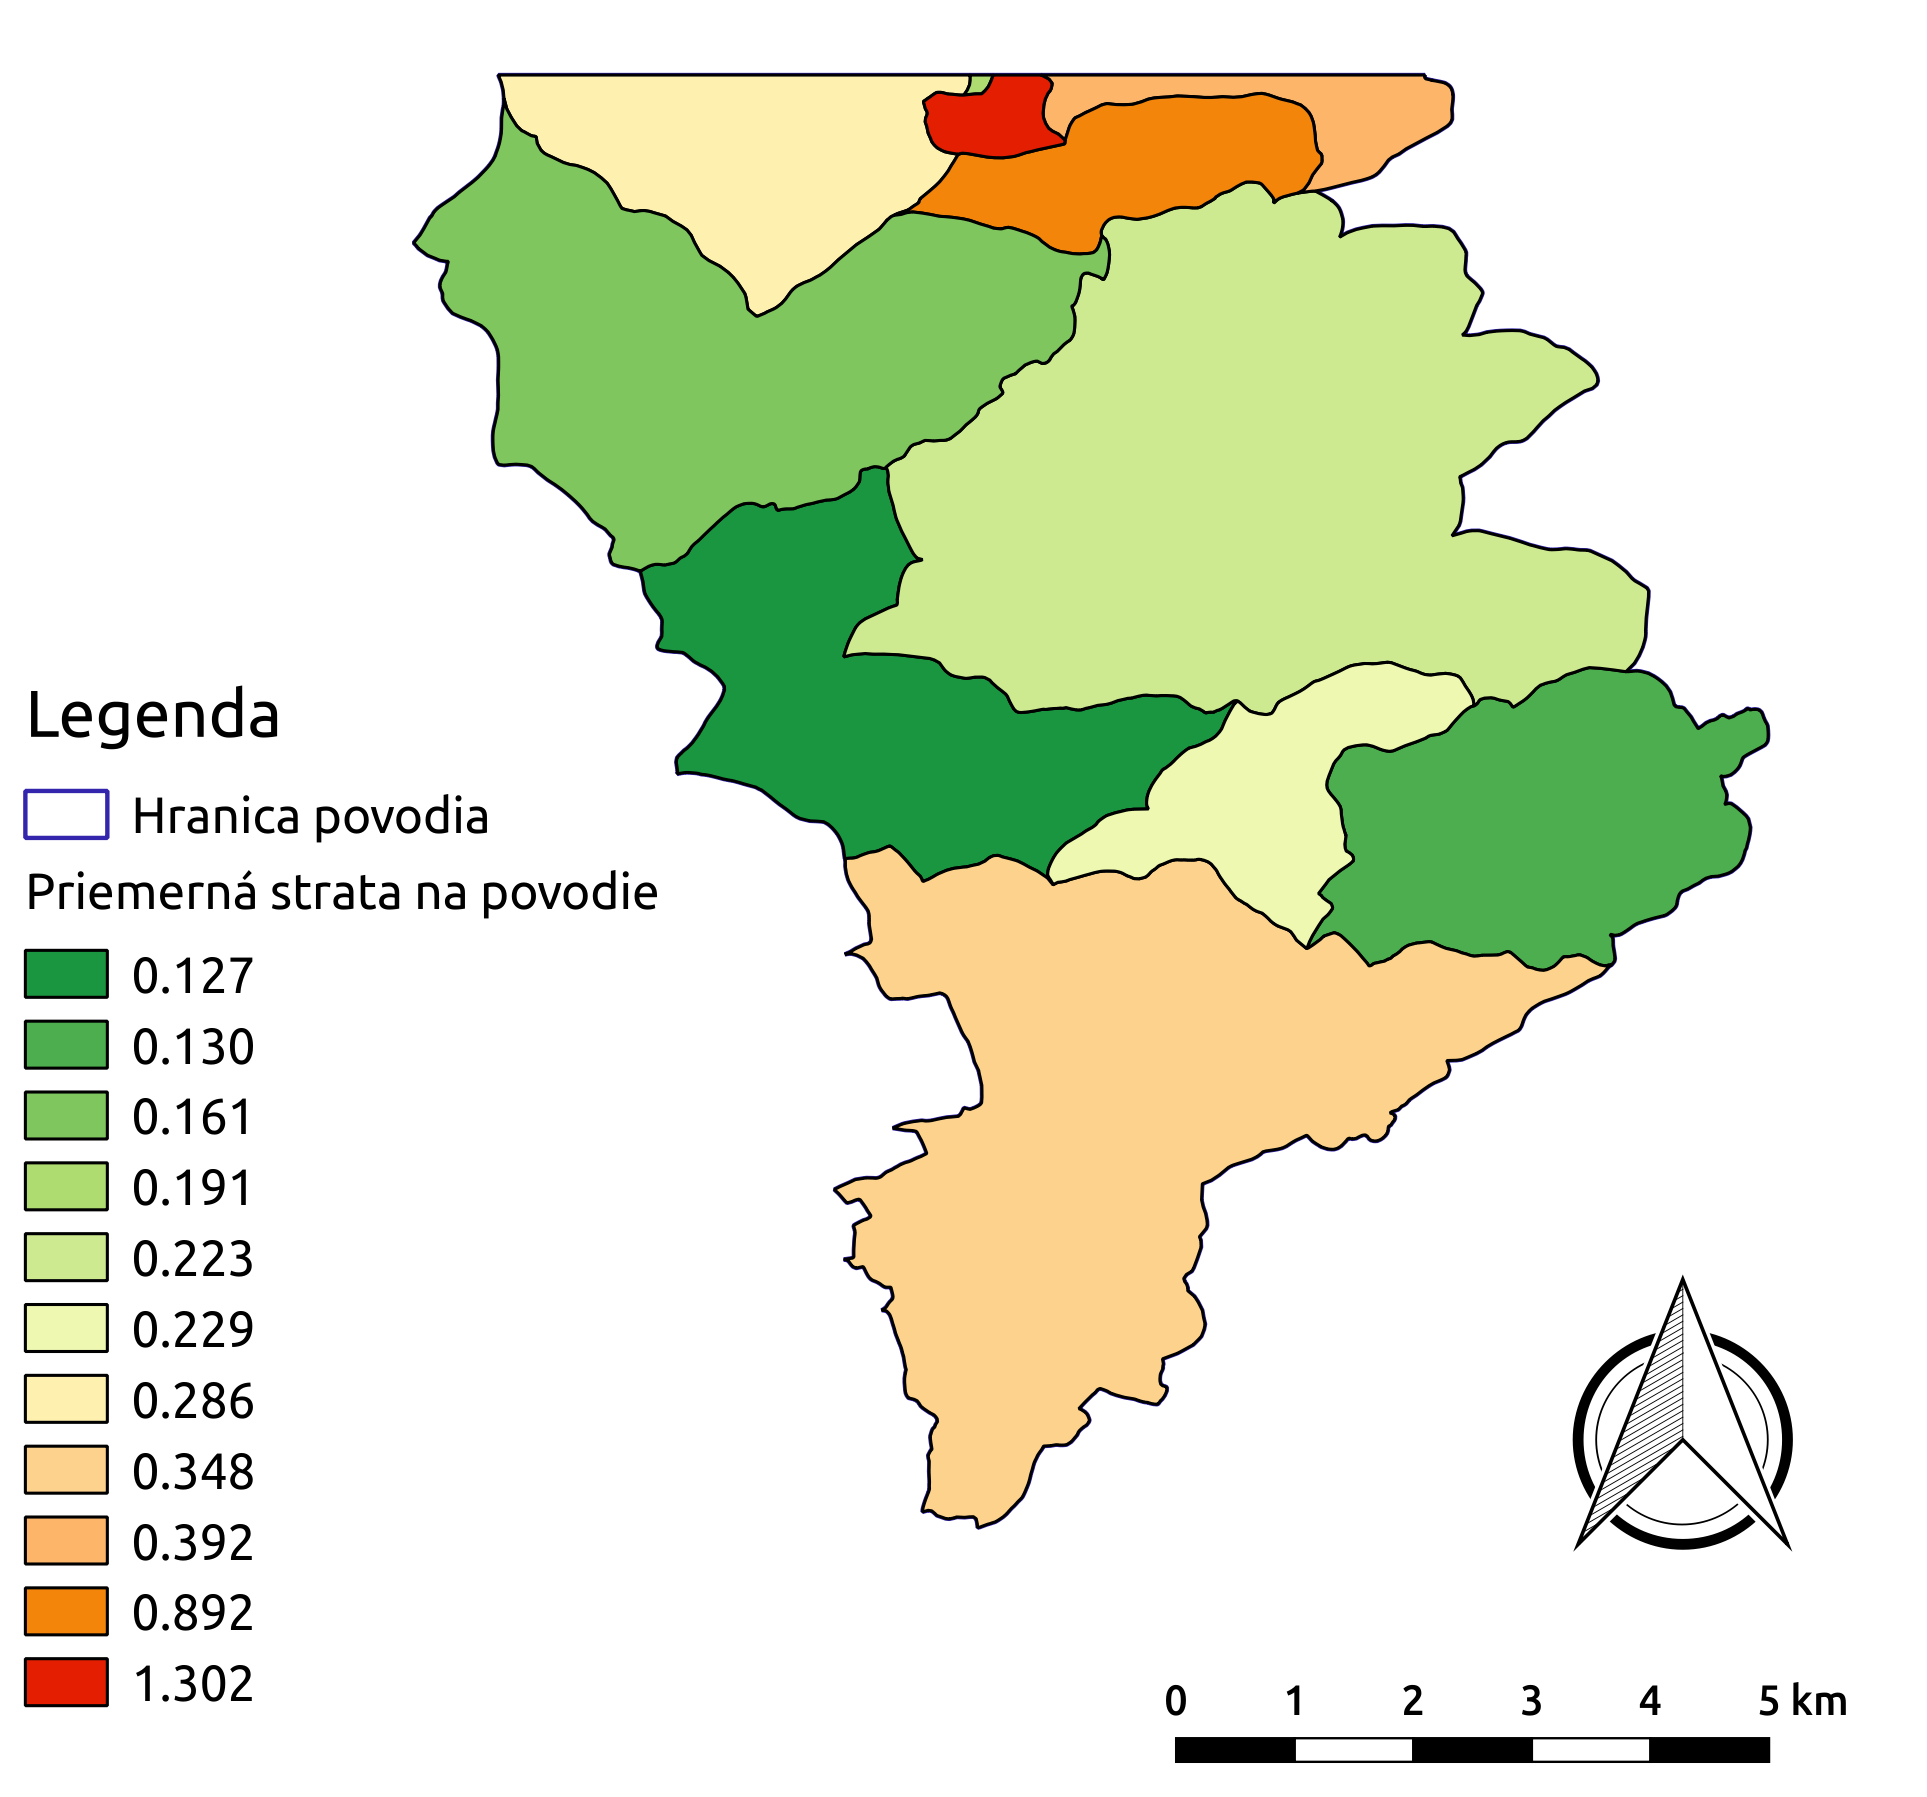
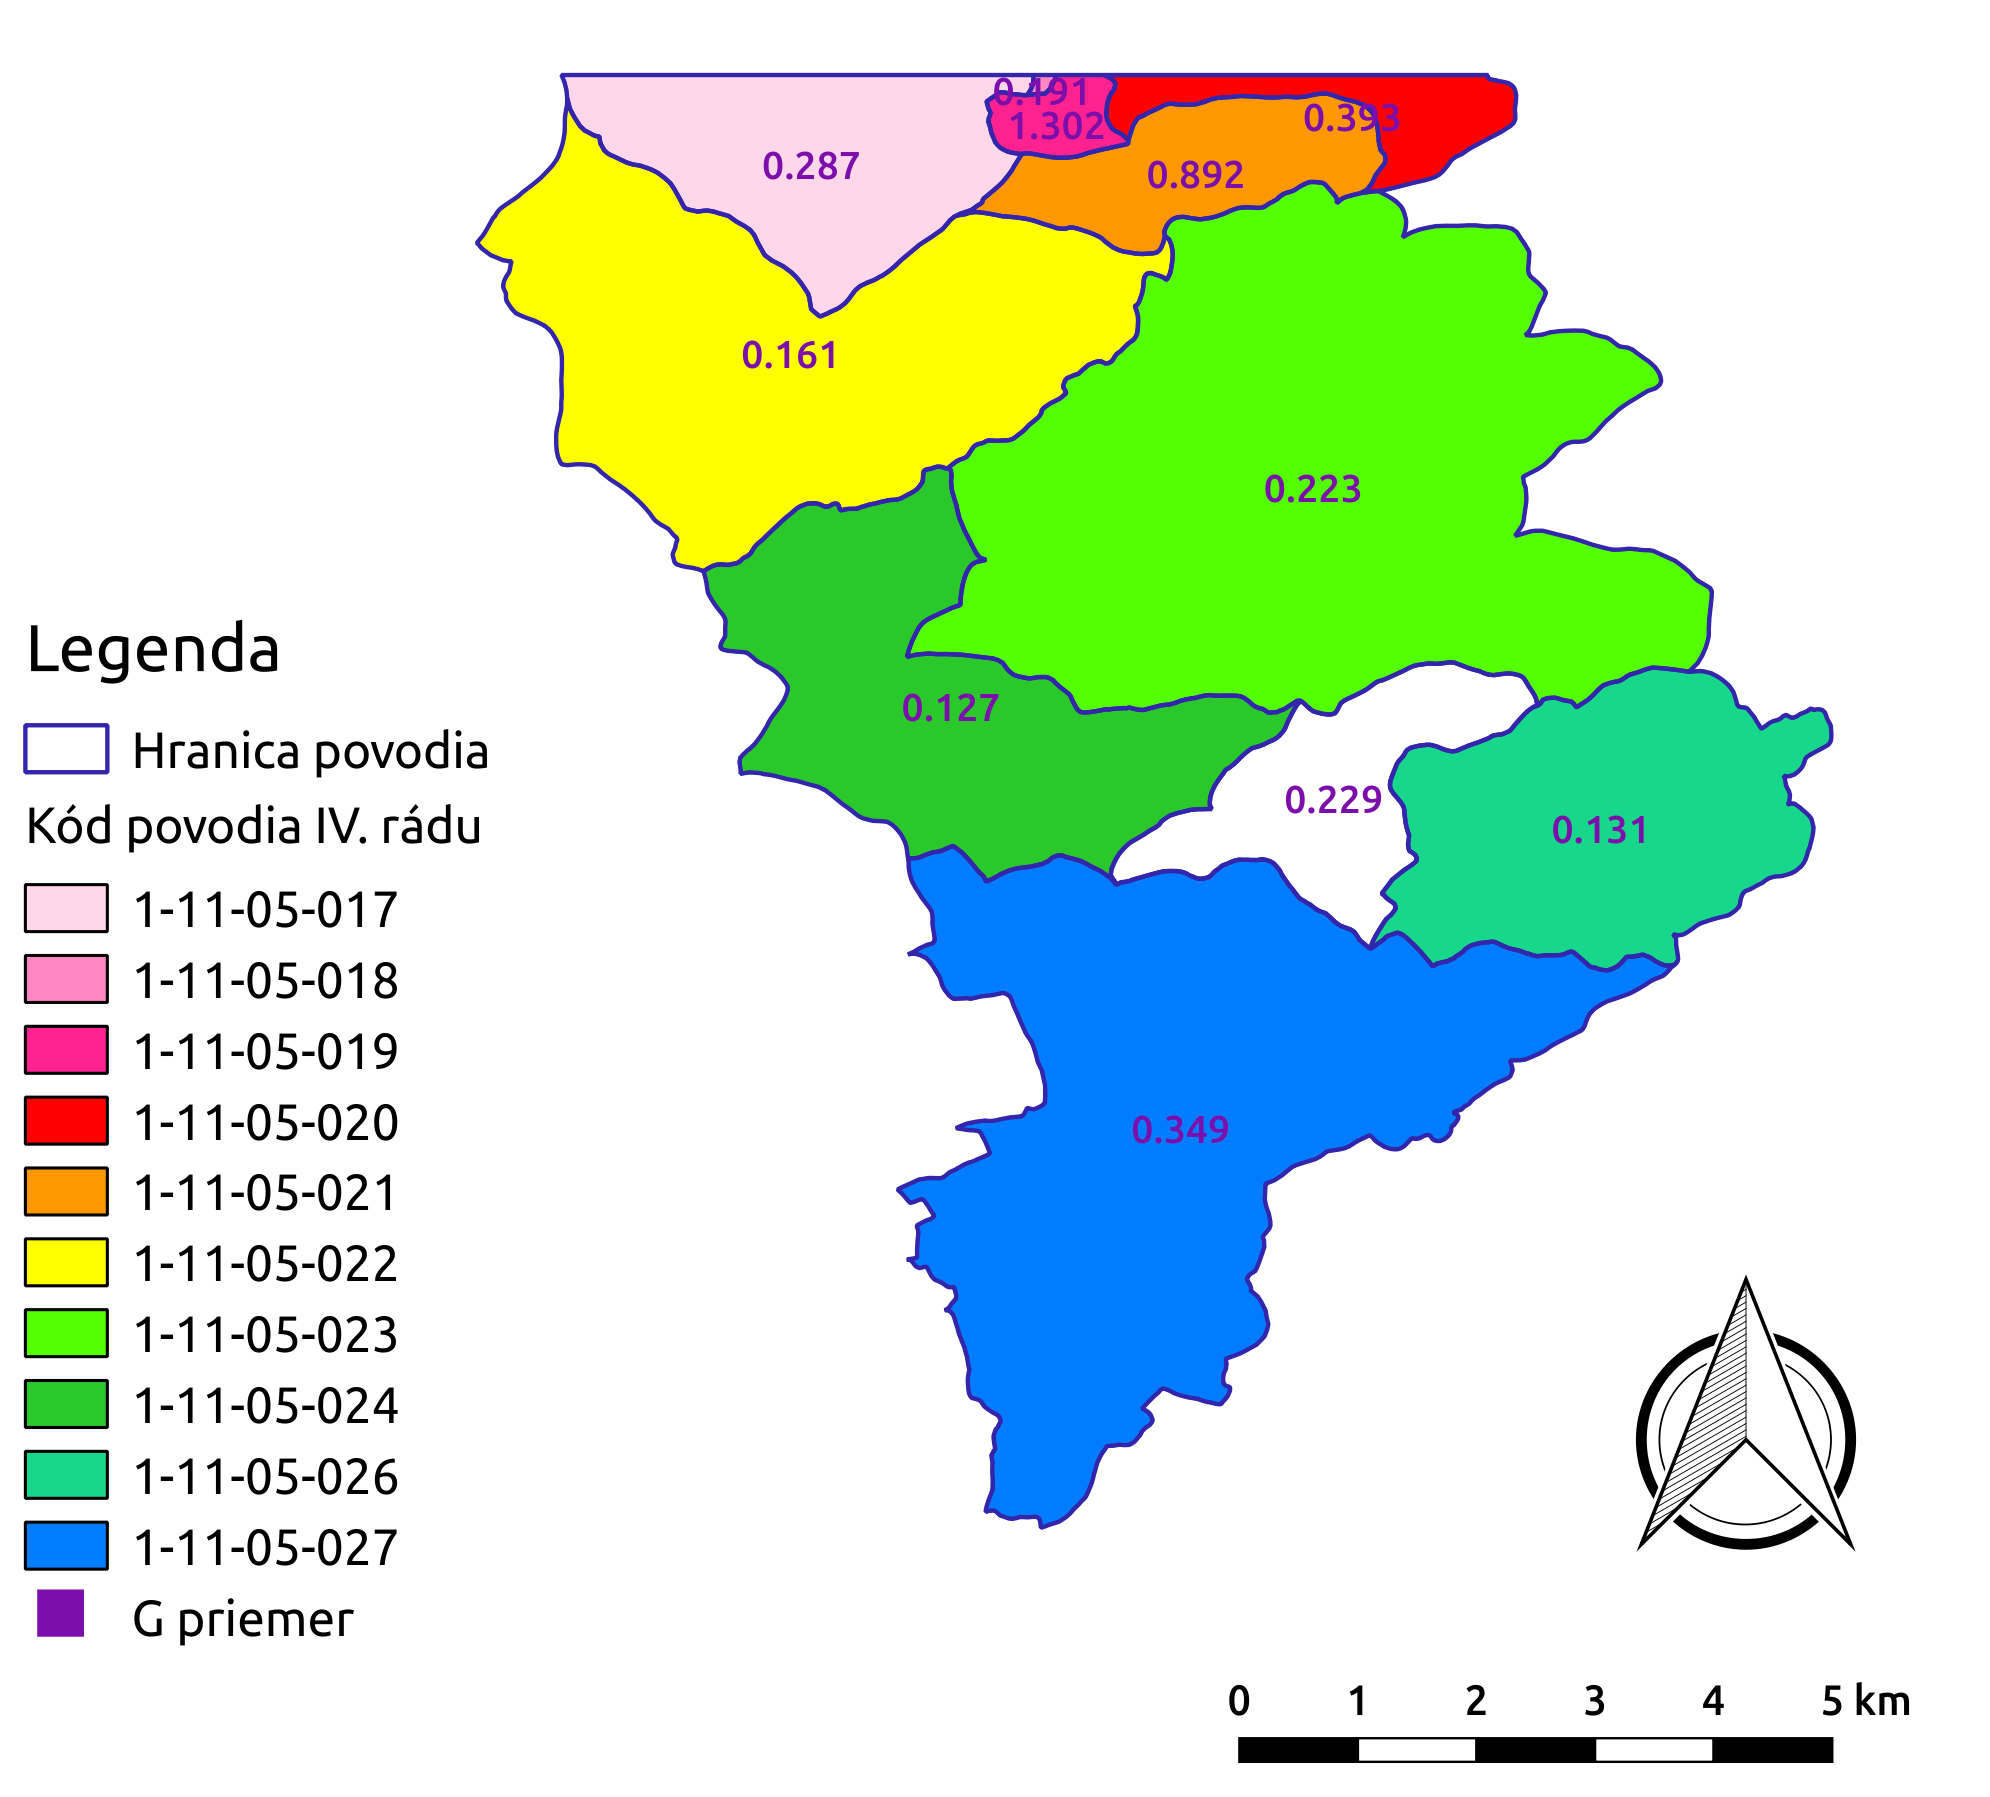
usle: average values for every watershed

diff --git a/hydrologie/usle.rst b/hydrologie/usle.rst
@@ -410,6 +410,14 @@ je na :num:`#g-por`.
 Krok 11
 ^^^^^^^
 
-.. todo:: 10. výpočet priemerných hodnôt `G` pre povodie s maskou a vytvorenie :map:`g_pov_m`
+Priemerné hodnoty `G` určíme pre každé povodie po uvážení prvkov, ktoré 
+prerušujú odtok. Pre porovnanie sú na :num:`#g-pov-por` hodnoty 
+straty pôdy vykreslené pomocou textového diagramu v jednotkách 
+:math:`t.ha^{-1}.rok^{-1}` bez a s úvážením prvkov prerušujúcich odtok.
 
+.. _g-pov-por:
 
+.. figure:: images/g_pov_por.png
+   :class: small
+
+   Povodia s priemernými hodnotami straty pôdy v jednotkách :math:`t.ha^{-1}.rok^{-1}` bez a s úvážením prvkov prerušujúcich odtok. 
